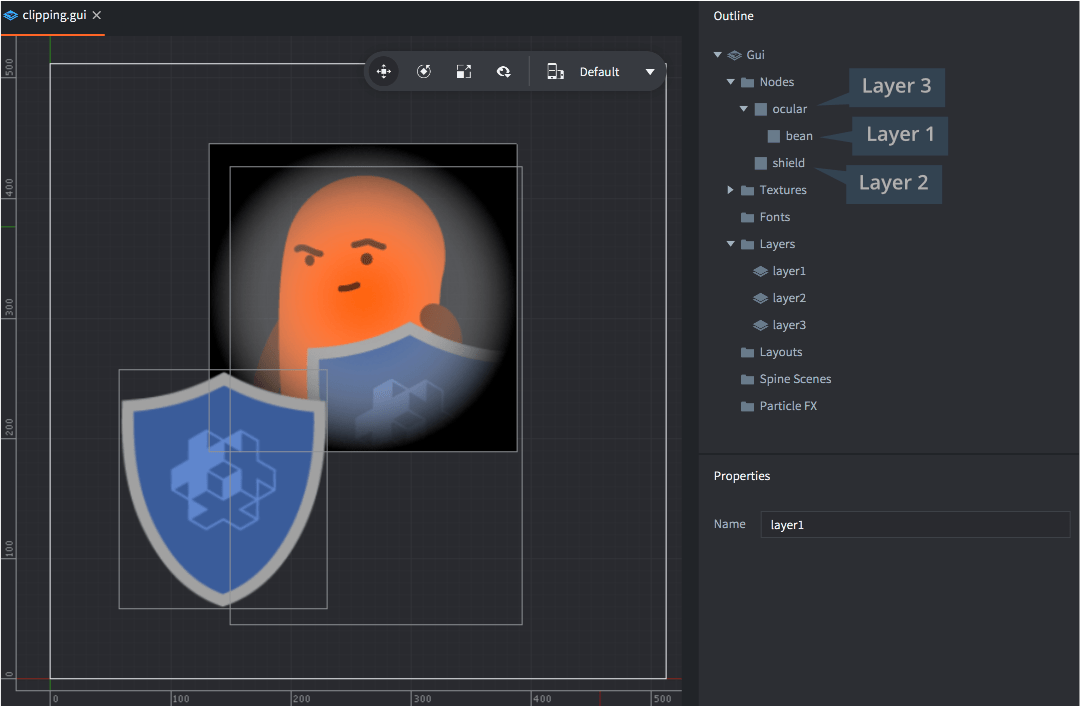
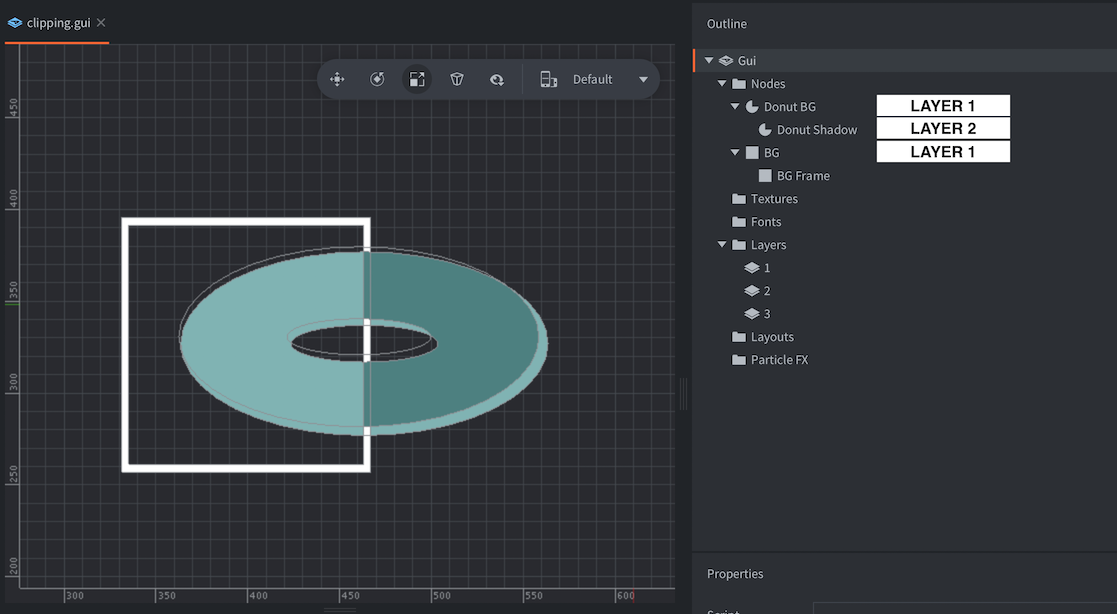
Updated GUI Clipping with layers

diff --git a/docs/en/manuals/gui-clipping.md b/docs/en/manuals/gui-clipping.md
@@ -57,10 +57,7 @@ Four combinations of normal and inverted clippers are possible for this hierarch
 
 ## Layers
 
-Layers can be used to control rendering order (and batching) of nodes. When using layers and clipping nodes the usual layering order is overridden.
-
-- Clipping order take precedence over layer order---regardless of what layer a node belongs to, it will be clipped according to the node hierarchy.
-- Layers only affect the draw order of graphics---and furthermore, the layer set on a clipping node only affects the draw order _in that clipper's hierarchy_.
+Layers can be used to control rendering order (and batching) of nodes. When using layers and clipping nodes the usual layering order is overridden. Layer order always take precedence over the clipping order---if layer assignments are combined with clipping nodes, clipping could happen out-of-order if a parent node with clipping enabled belongs to a higher layer than its children. The children with no layer assigned will still respect the hierarchy and subsequently be drawn and clipped after the parent.
 
 ::: sidenote
 A clipping node and its hierarchy will be drawn first if it has a layer assigned and in the regular order if no layer is assigned.
@@ -68,6 +65,11 @@ A clipping node and its hierarchy will be drawn first if it has a layer assigned
 
 ![Layers and clipping](images/gui-clipping/layers.png){srcset="images/gui-clipping/layers@2x.png 2x"}
 
-Here the clipper node "ocular" is set to "layer3" and the "bean" node is set to "layer1". The ocular clipper's texture is therefore rendered on top of the clipped bean.
+In this example, both the clipper nodes "Donut BG" and "BG" are using the same layer 1. The render order between them will be according to the same order in the hierarchy where "Donut BG" is rendered before "BG". However, the child node "Donut Shadow" is assigned to the layer 2 which has a higher layer order and thus will be rendered after the both clipping nodes. In this case, the render order will be:
 
-The node "shield" is set to "layer2", but it has no effect on the node's render order in relation to "ocular" or "bean". To change the render order of "shield", change the node tree index order.
+- Donut BG
+- BG
+- BG Frame
+- Donut Shadow
+
+Here you can see that the "Donut Shadow" object will be clipped by both clipping nodes due to the layering, eventhough it is only a child to one of them.
